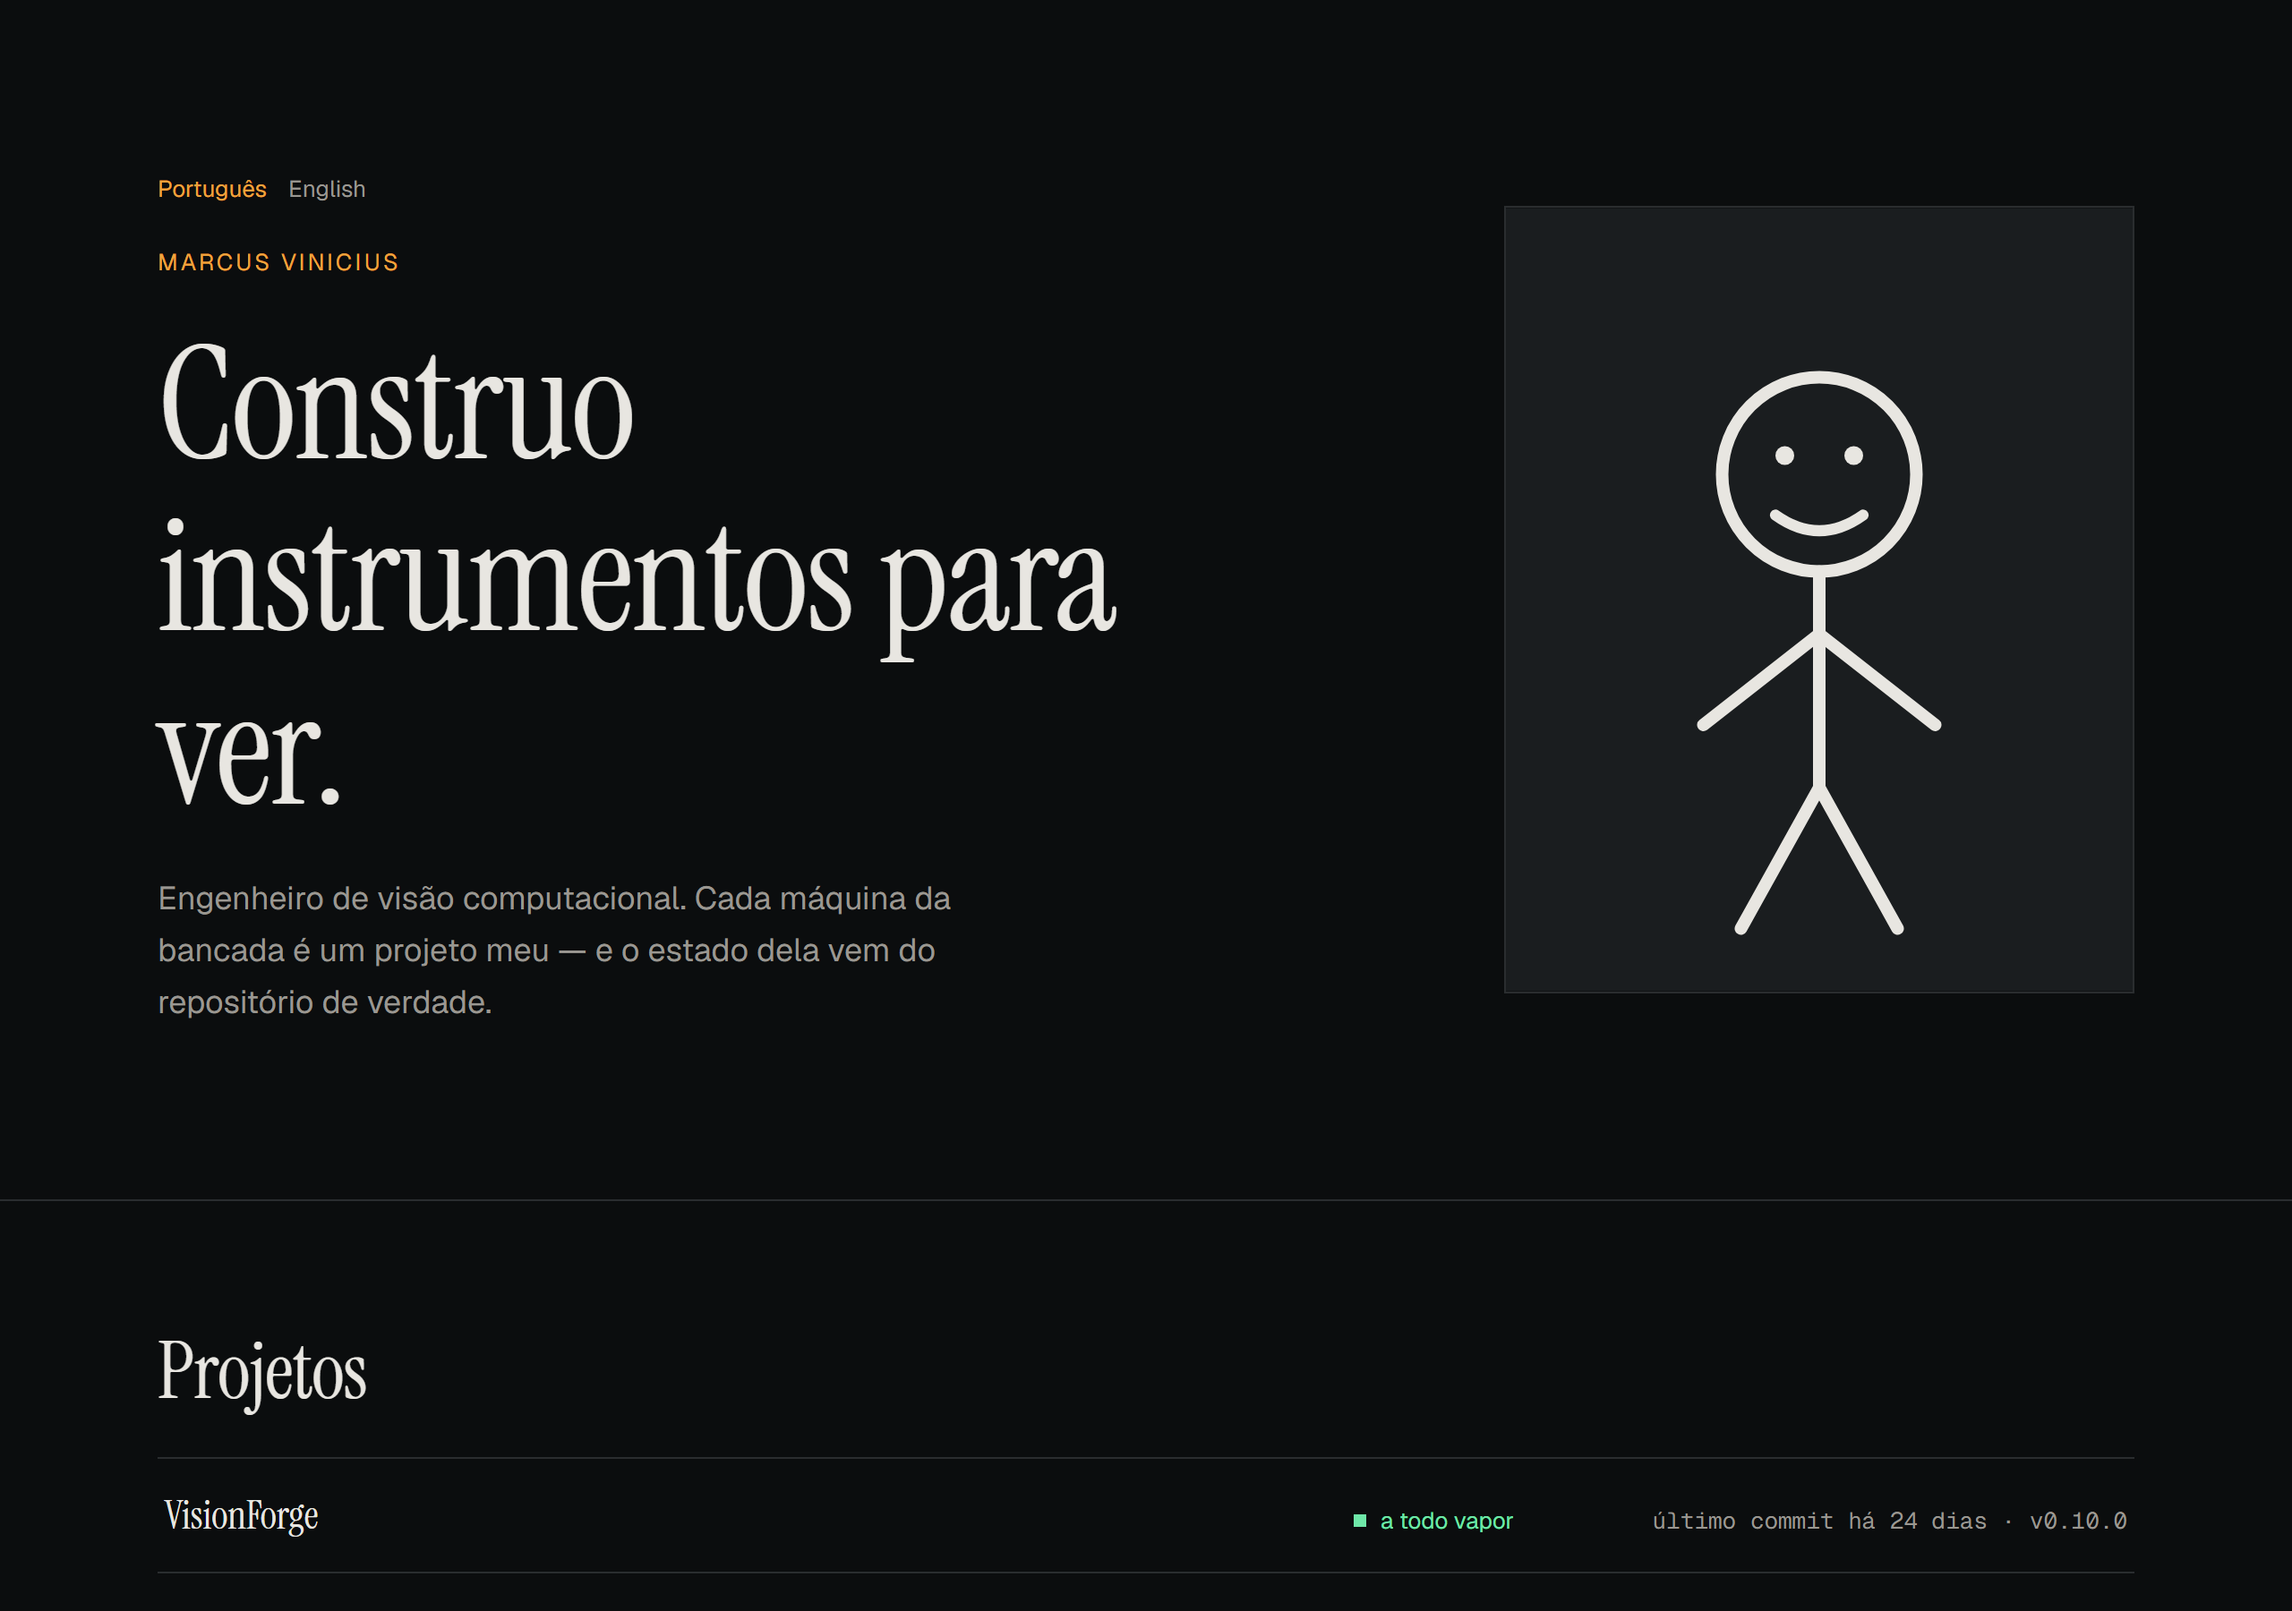
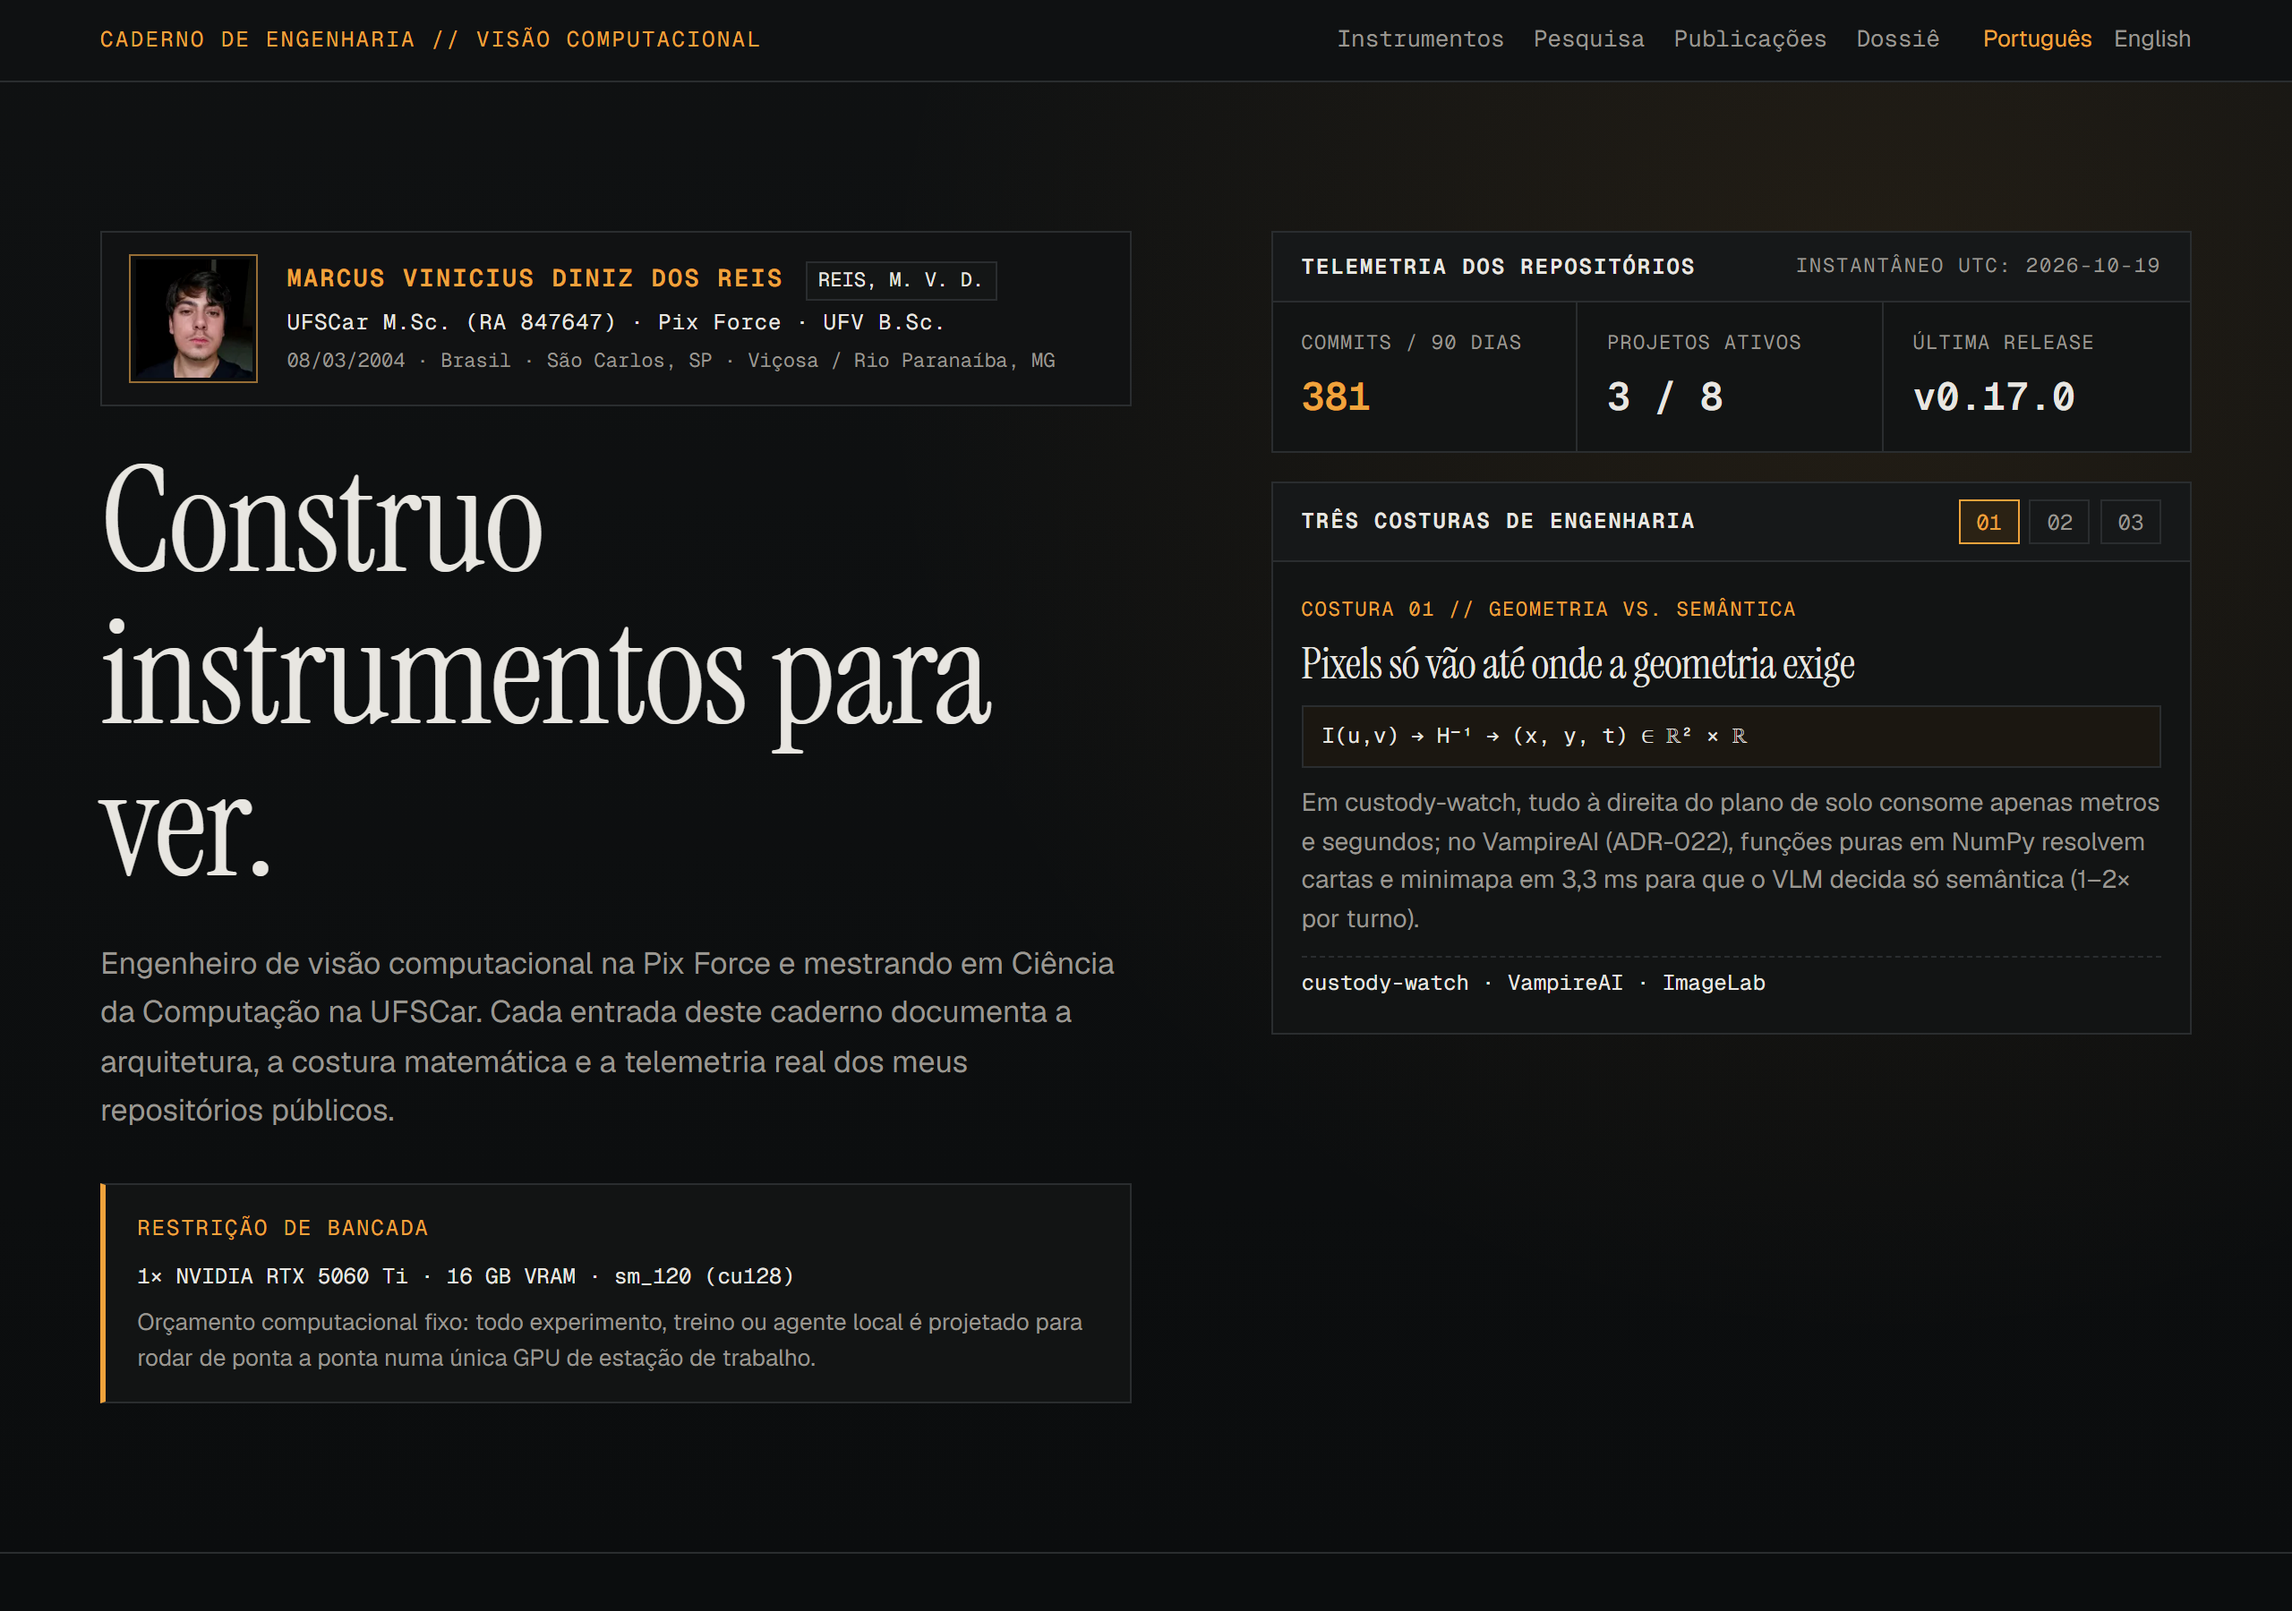
docs: atualiza CLAUDE.md, README.md e capturas do Caderno de Engenharia

diff --git a/README.md b/README.md
@@ -1,58 +1,62 @@
-# A Bancada — portfólio de Marcus Vinicius
+# Caderno de Engenharia & Instrumentos — Marcus Vinicius
 
-A bilingual portfolio where every project is a **small machine living on a
-bench**, and the state of each machine comes from its real GitHub repository.
+A bilingual (PT/EN) engineering notebook and portfolio where every public
+repository is presented with its **architectural schematic, mathematical seam,
+design invariant, and live telemetry from GitHub**.
 
 ![The home page in dark mode](docs/images/home-dark.png)
 
 *(README in English on purpose: this repository is linked from the site, which
 is aimed at both Brazilian and international readers.)*
 
-> **Status — under construction.** This is stage 3 of 7: the data pipeline,
-> the mood rules and the project index are live. The machines themselves (a
-> pixel-art floor in Canvas 2D), the in-place project panel and the hero's
-> light effect come next — see [Roadmap](#roadmap).
+## The design
 
-## The idea
+Instead of generic project cards or placeholder illustrations, each project is
+documented like an **instrument specification sheet**:
 
-The projects become machines with a screen for a face: a floating lens for
-VisionForge, a weather station for AirWatch, a coffee maker for CoffeeBean, a
-ball launcher for VoleiArena. None of them is humanoid.
-
-Each machine's **mood is computed from the repository**. A daily job reads the
-last commit (across *all* branches — `pushed_at` lies), the commits in the last
-90 days, the latest tag and the stars, and crosses that with a hand-written
-status:
+1. **Vector Architectural Schematics (`src/components/Schematic.astro`)**: Every
+   project renders a custom SVG blueprint of its actual internal pipeline —
+   VisionForge's multi-seed bootstrap confidence intervals and `run.json`
+   contract, `custody-watch`'s strict pixel-to-metre homography seam,
+   VampireAI's ADR-022 split between 3.3 ms NumPy geometry and local 7B VLM
+   semantics, AirWatch's dual RabbitMQ queues, ImageLab's spatial/FFT signal
+   chain, CoffeeBean's CLAHE + Wavelet CNN ensemble, KNN's MPEG7 descriptor
+   boundary, Sorting-Hub's empirical $N = 10 \dots 10^6$ pivot curves, and the
+   UFSCar Master's research on filtering ceilings vs. open-vocabulary
+   pseudo-label completion.
+2. **Hero Calibration & Telemetry Console (`src/components/Hero.astro`)**:
+   Displays live repository telemetry aggregated from the committed GitHub
+   snapshot alongside an interactive switcher for the three core engineering
+   seams (*Geometry vs. Semantics*, *Provenance & Refusal*, *Domain Shift*).
+3. **Computed Operational Mood (`src/lib/mood.ts`)**: A daily job reads the
+   latest commit across all branches, 90-day commit activity, release tags and
+   stars, and crosses that with each project's status:
 
 | Mood | When |
 |---|---|
-| graduated | the project is finished — university coursework, for instance |
+| graduated | the project is finished — university coursework or published study |
 | full steam | active, 30 or more commits in 90 days |
 | active | active, fewer commits |
 | yawning / napping / asleep | paused, for under 90 / 90–180 / over 180 days |
 
-Finished is not abandoned: a course project from 2024 *graduates*, it doesn't
-gather dust. And the data keeps the status honest — a project marked "active"
-with no commit in six months is treated as paused, and the build says so.
+![The instrument dossiers with schematics and live GitHub telemetry](docs/images/index.png)
 
-![The project index, each row saying the mood and the fact behind it](docs/images/index.png)
-
-## A few things I'd point at
+## Architectural invariants
 
 **The build never touches the network.** `npm run refresh:github` writes
 `src/data/github-snapshot.json`, which is committed. A GitHub Action refreshes
-it daily. The mood's "today" is the snapshot's date, never the clock, so any
-build is reproducible.
+it daily. The mood's "today" is the snapshot's date, never the system clock, so
+every build is reproducible.
 
-**A missing translation fails the build**, and so does an empty collection —
-which is what would happen, silently, if the content id format ever changed.
+**Parity and contrast are enforced by tests.** Missing translations or
+frontmatter drift between PT and EN fail the build (`src/lib/parity.ts`,
+`tests/unit/project-accents.test.ts`), and every project's dark/light accent
+pair is verified against WCAG AA (4.5:1) directly from the real MDX files.
 
-**Colour contrast is a test, not a hope.** Every accent is a *pair* — dark and
-light mode — and `tests/unit/project-accents.test.ts` reads the real content
-files to assert WCAG AA on each.
-
-**No display text lives in a component.** It's all in `src/lib/ui-strings.ts`
-or in MDX frontmatter.
+**No display text or hex colour lives in a component.** All copy, schematic
+labels, publications, awards and trajectory entries live in
+`src/lib/ui-strings.ts` or MDX frontmatter; all colours flow from
+`src/lib/tokens.ts` or per-project MDX accents.
 
 | Light mode | English |
 |---|---|
@@ -71,15 +75,4 @@ or in MDX frontmatter.
 | `npm run refresh:github` | Refresh the GitHub snapshot (needs `GITHUB_TOKEN`) |
 | `npm run shots` | Regenerate the screenshots in this README |
 
-## Roadmap
-
-- [x] **Stage 3 — data, mood and index.**
-- [ ] **Stage 4 — the floor.** Canvas 2D, Aseprite spritesheets, the first two
-  machines.
-- [ ] **Stage 5 — the panel.** Projects open in place; the URL still changes.
-- [ ] **Stage 6 — the hero.** Half photograph, half squares of light on the
-  same pixel grid as the machines.
-- [ ] **Stage 7 — the full cast** and the interactions between machines.
-
-See `CLAUDE.md` for the project's invariants, and `docs/superpowers/` for the
-spec and the implementation plans.
+See `CLAUDE.md` for the full list of project invariants.

diff --git a/CLAUDE.md b/CLAUDE.md
@@ -1,22 +1,24 @@
 # Invariantes do projeto
 
-Este é o portfólio de Marcus Vinicius: um site estático Astro 7, bilíngue
-(PT/EN), chamado **A Bancada** — cada projeto é uma máquina que vive num chão,
-e o estado dela vem dos dados reais do GitHub. A spec é
-`docs/superpowers/specs/2026-09-22-portfolio-bancada-design.md`. Antes de mudar
-algo, confira se a mudança respeita o que segue — são decisões deliberadas, não
-acidentes de implementação.
+Este é o portfólio de Marcus Vinicius Diniz dos Reis: um site estático Astro 7,
+bilíngue (PT/EN), desenhado como **Caderno de Engenharia & Instrumentos** —
+cada projeto público do GitHub é documentado como uma ficha técnica com
+esquemático arquitetural vetorial, invariante de engenharia e estado operacional
+calculado dos dados reais do GitHub. Antes de mudar algo, confira se a mudança
+respeita o que segue — são decisões deliberadas, não acidentes de implementação.
 
 - **IDs de conteúdo são `<locale>/<slug>`.** Vêm de `generateId` em
   `src/content.config.ts`. `src/lib/projects.ts` (`slugOf`, `entriesFor`) é o
   único lugar que deve parsear esse formato; não reintroduza `id.split('/')[1]`
   em páginas ou componentes.
 - **Nenhum texto de exibição fica hardcoded em componente ou página.** Todo
-  texto visível vive em `src/lib/ui-strings.ts` (`UI`, por idioma). Se um texto
-  novo aparecer na tela, ele entra ali primeiro.
+  texto visível vive em `src/lib/ui-strings.ts` (`UI`, por idioma) ou no
+  frontmatter/corpo dos MDX. Se um texto novo aparecer na tela (incluindo
+  rótulos de esquemáticos, publicações, prêmios ou telemetria), ele entra ali
+  primeiro.
 - **Cores só vêm de dois lugares:** a paleta base em `src/lib/tokens.ts`, e o
   acento por projeto no frontmatter do MDX (`accent`, `accentLight`). Nunca
-  hardcode um hex em CSS.
+  hardcode um hex em CSS ou SVG de componente.
 - **Todo acento precisa de `accent` (escuro) e `accentLight` (claro), e os dois
   precisam passar WCAG AA (4.5:1)** contra o fundo do modo correspondente.
   `tests/unit/project-accents.test.ts` cobre isso lendo os MDX de verdade — não
@@ -33,11 +35,13 @@ acidentes de implementação.
 - **Humor é função pura.** `src/lib/mood.ts` cruza o `status` escrito no MDX
   com o instantâneo. Concluído não é abandonado: `concluido` vira "formado", e
   só projeto inacabado e parado dorme.
-- **Os personagens são máquinas com rosto em tela. Nenhum é humanoide.** Decisão
-  do dono; não proponha personagem humano, nem o vampirinho.
-- **Projetos do empregador do dono do repositório nunca aparecem no site.** "Pix
-  Force" só pode ser citada como nome do empregador no texto "Sobre" — não como
-  projeto, não como máquina.
+- **Todo projeto e pesquisa tem um esquemático vetorial em `Schematic.astro`.**
+  O campo `character` do frontmatter seleciona o diagrama arquitetural e a
+  costura matemática correspondente em `UI[locale].schematics`. Sem bonequinho
+  de palito e sem arte que dependa de captura ausente.
+- **Apenas repositórios públicos de autoria própria entram no índice.** Projetos
+  do empregador nunca aparecem no site: "Pix Force" só é citada como
+  empregadora no "Sobre" e na linha do tempo profissional.
 - **JavaScript é aprimoramento progressivo.** O site é completo e navegável sem
-  ele, e o teto é de 70 kB de JS minificado no total (§9 da spec). Cada motor de
-  animação pausa quando sai da tela.
+  ele (abas de costuras no hero e filtros de estado no índice degradam para HTML
+  semântico), e o teto é de 70 kB de JS minificado no total.
